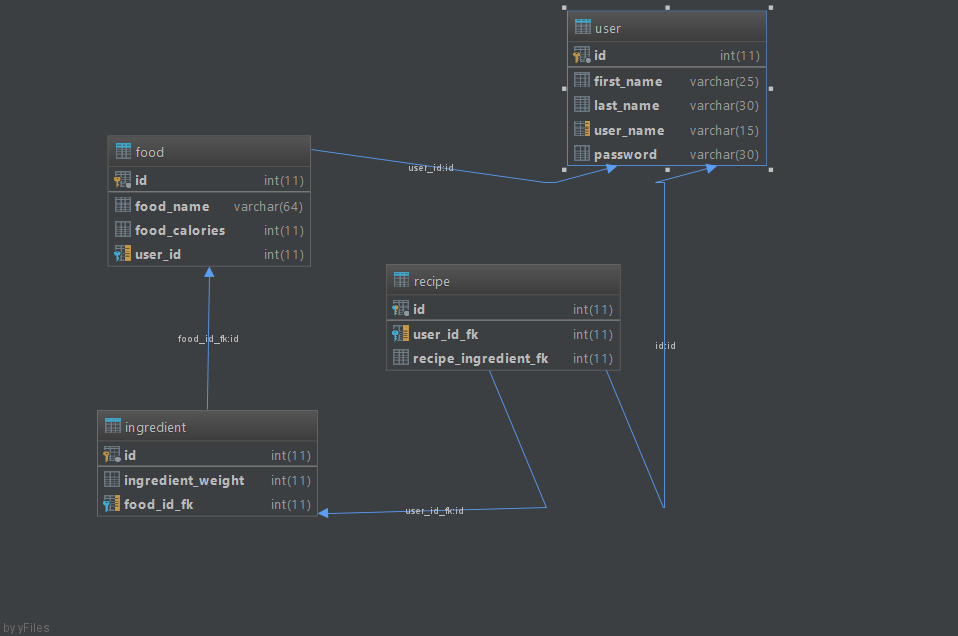
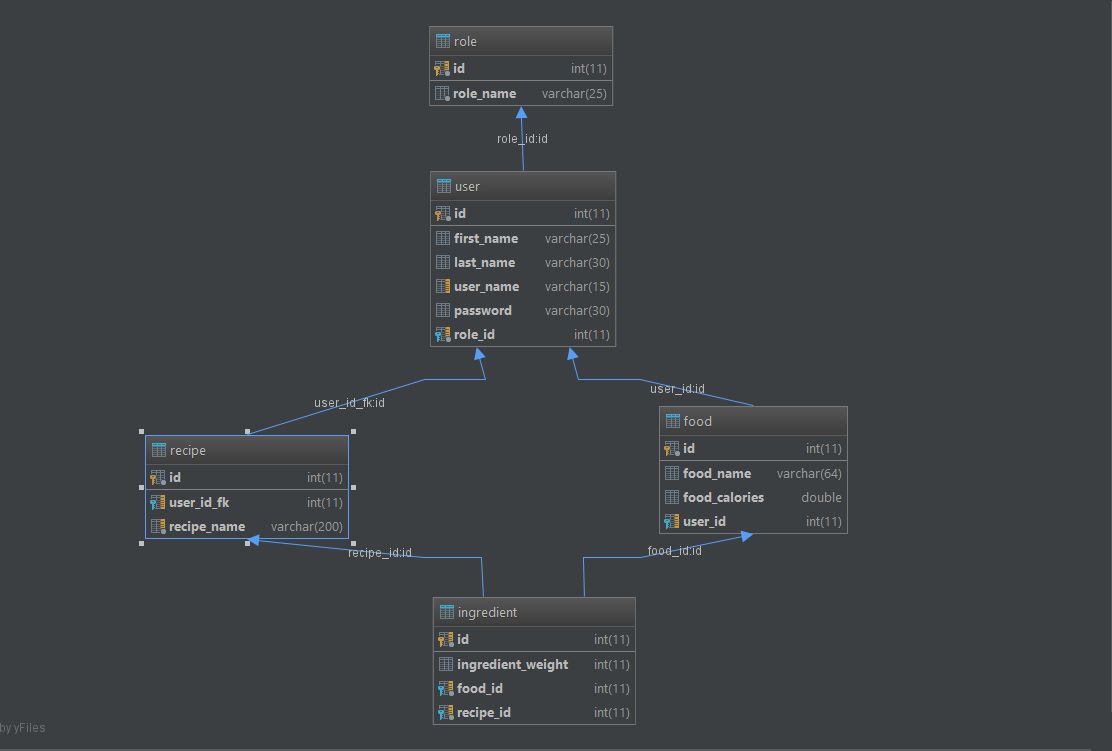
adding new db design, that actually makes sense.

diff --git a/src/main/java/edu/matc/entity/Role.java b/src/main/java/edu/matc/entity/Role.java
@@ -20,15 +20,6 @@ public class Role {
     @GenericGenerator(name = "native", strategy = "native")
     private int id;
 
-    @JsonIgnore
-    @XmlTransient
-    @ManyToOne(fetch = FetchType.EAGER)
-    @JoinColumn(name = "user_id", nullable = false)
-    private User user;
-
-    @Column(name="user_name")
-    private String userName;
-
 
     @Column(name="role_name")
     private String roleName;
@@ -39,18 +30,6 @@ public class Role {
     public Role() {
     }
 
-    /**
-     * Instantiates a new Role.
-     *
-     * @param user     the user
-     * @param roleName the role name
-     * @param userName the user name
-     */
-    public Role(User user, String roleName, String userName) {
-        this.user = user;
-        this.roleName = roleName;
-        this.userName = userName;
-    }
 
     /**
      * Gets id.
@@ -70,23 +49,7 @@ public class Role {
         this.id = id;
     }
 
-    /**
-     * Gets user.
-     *
-     * @return the user
-     */
-    public User getUser() {
-        return user;
-    }
 
-    /**
-     * Sets user.
-     *
-     * @param user the user
-     */
-    public void setUser(User user) {
-        this.user = user;
-    }
 
     /**
      * Gets role name.
@@ -106,29 +69,5 @@ public class Role {
         this.roleName = roleName;
     }
 
-    @Override
-    public String toString() {
-        return "Role{" +
-                "id=" + id +
-                ", roleName='" + roleName + '\'' +
-                ", userName= '" + userName + '\'' +
-                '}';
-    }
-
-    @Override
-    public boolean equals(Object o) {
-        if (this == o) return true;
-        if (o == null || getClass() != o.getClass()) return false;
-        Role role = (Role) o;
-        return id == role.id &&
-                Objects.equals(userName, role.userName) &&
-                Objects.equals(roleName, role.roleName);
-    }
-
-    @Override
-    public int hashCode() {
-
-        return Objects.hash(id,  roleName, userName);
-    }
 
 }
